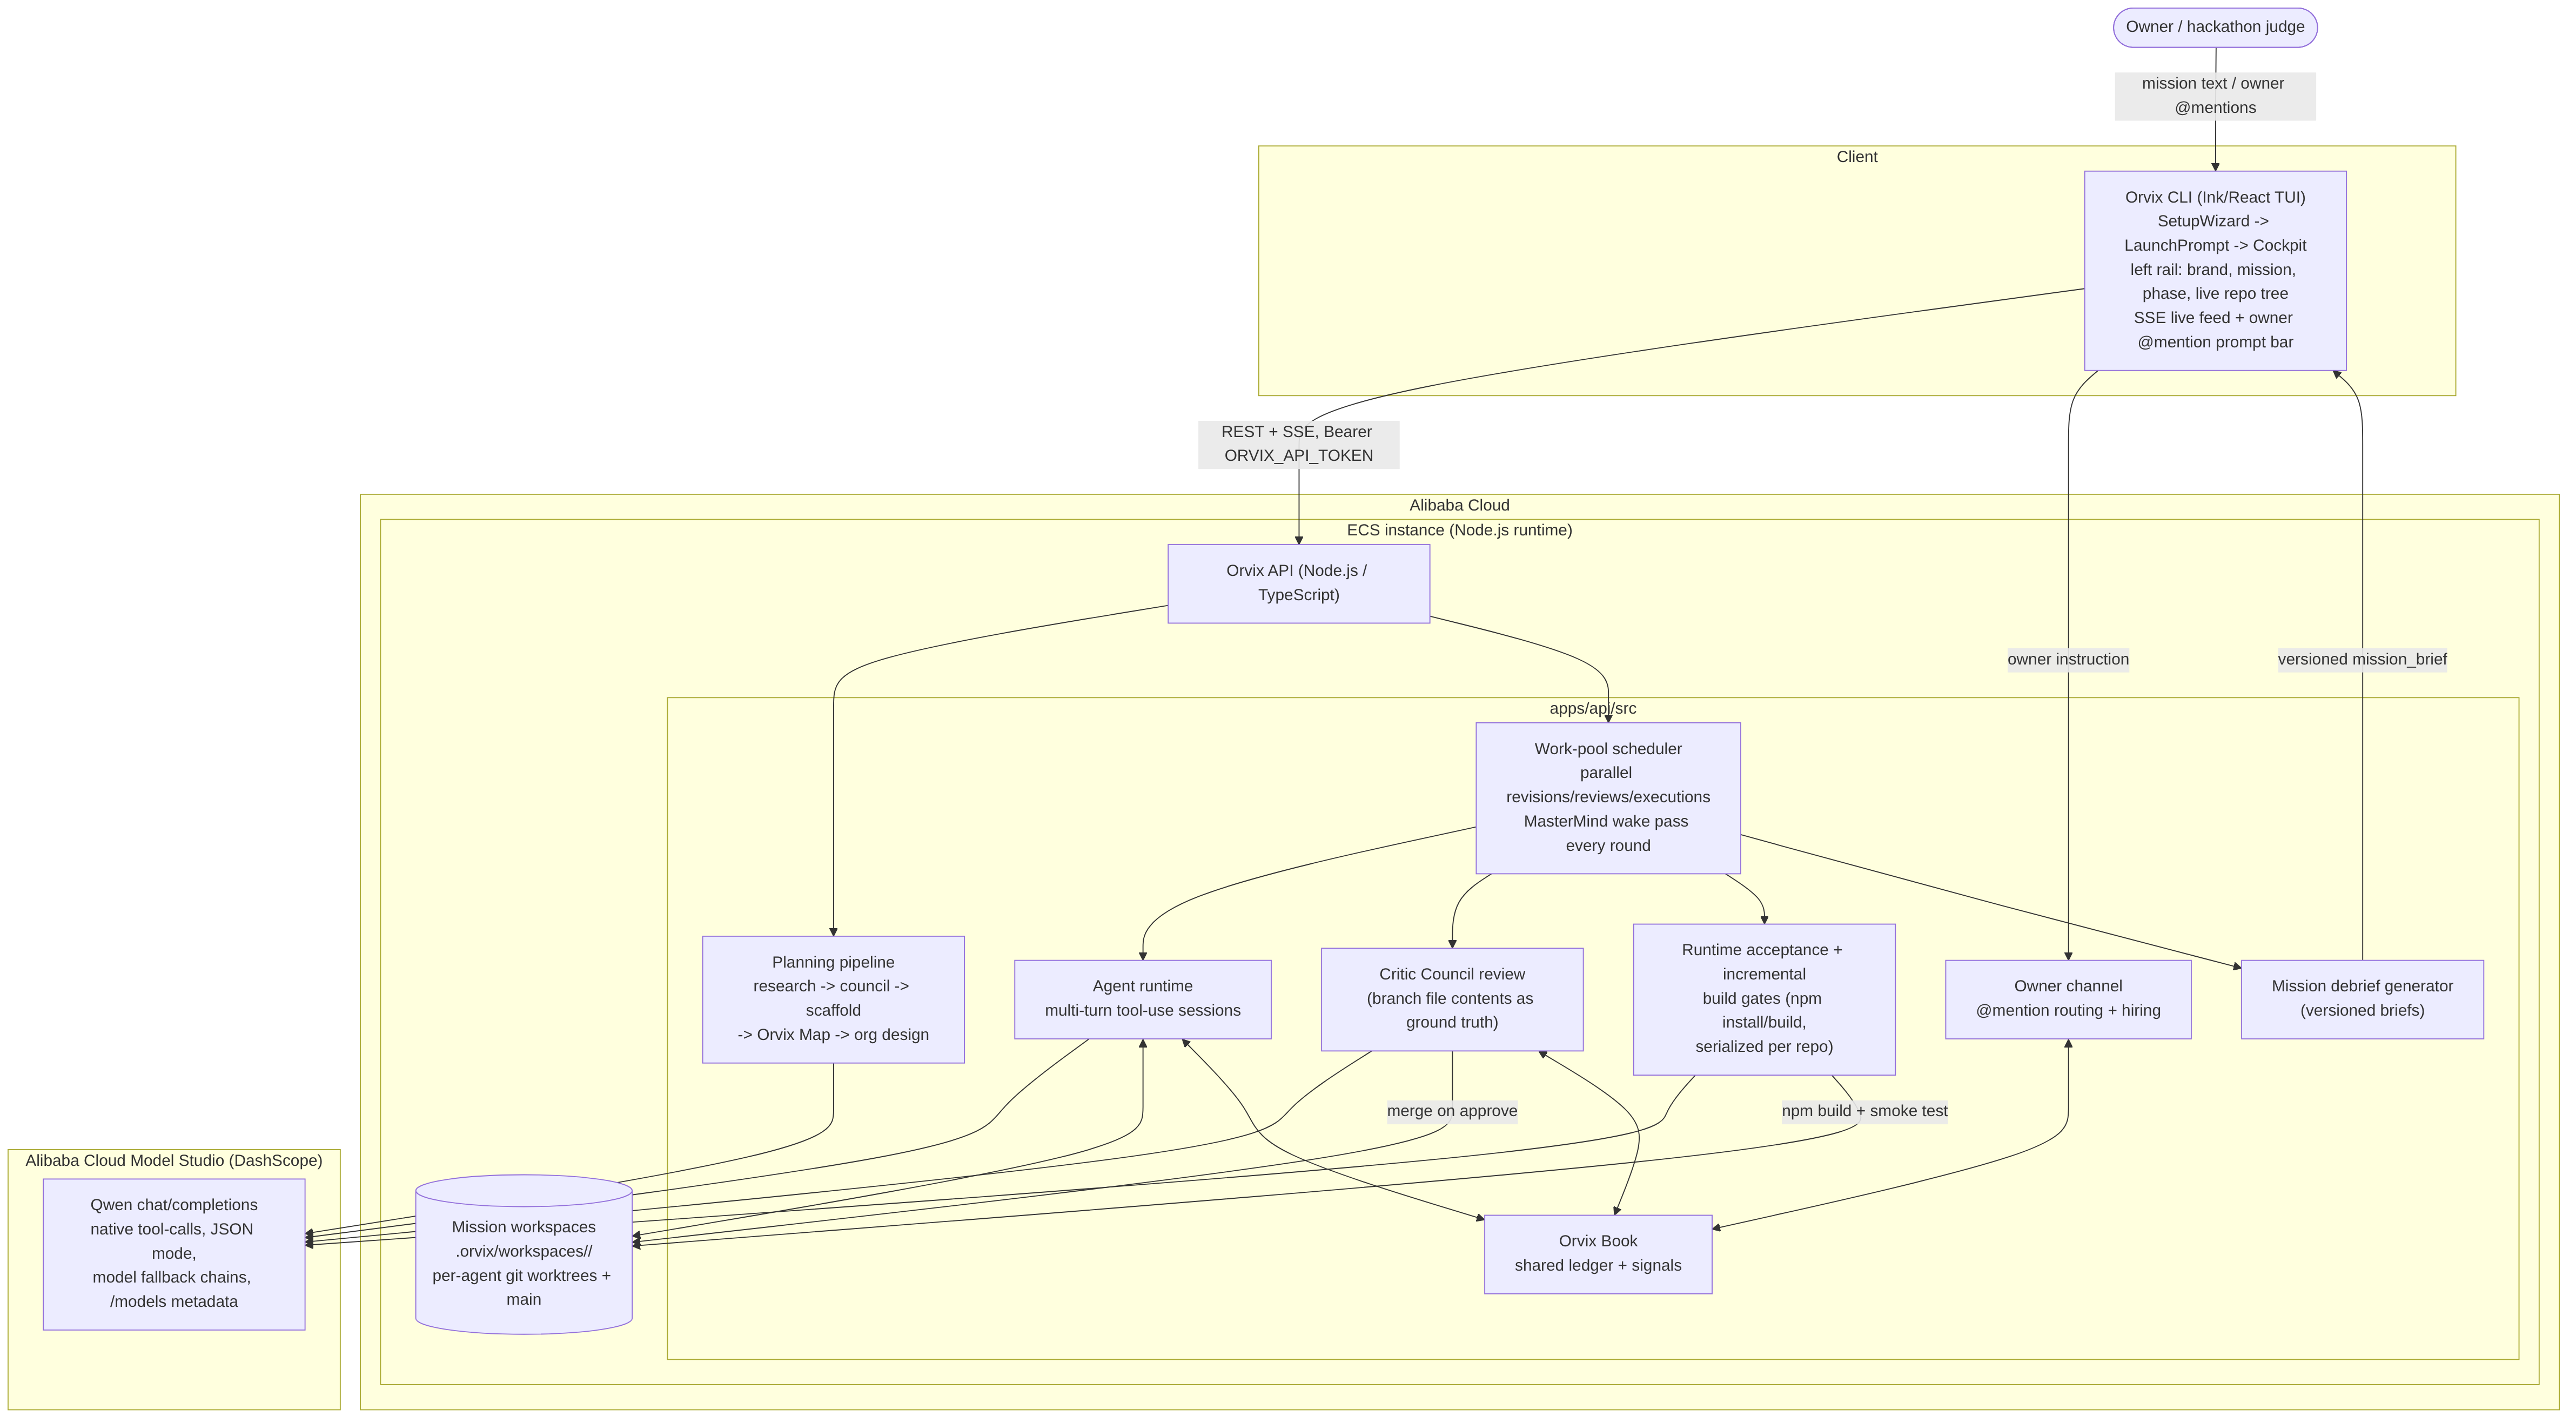
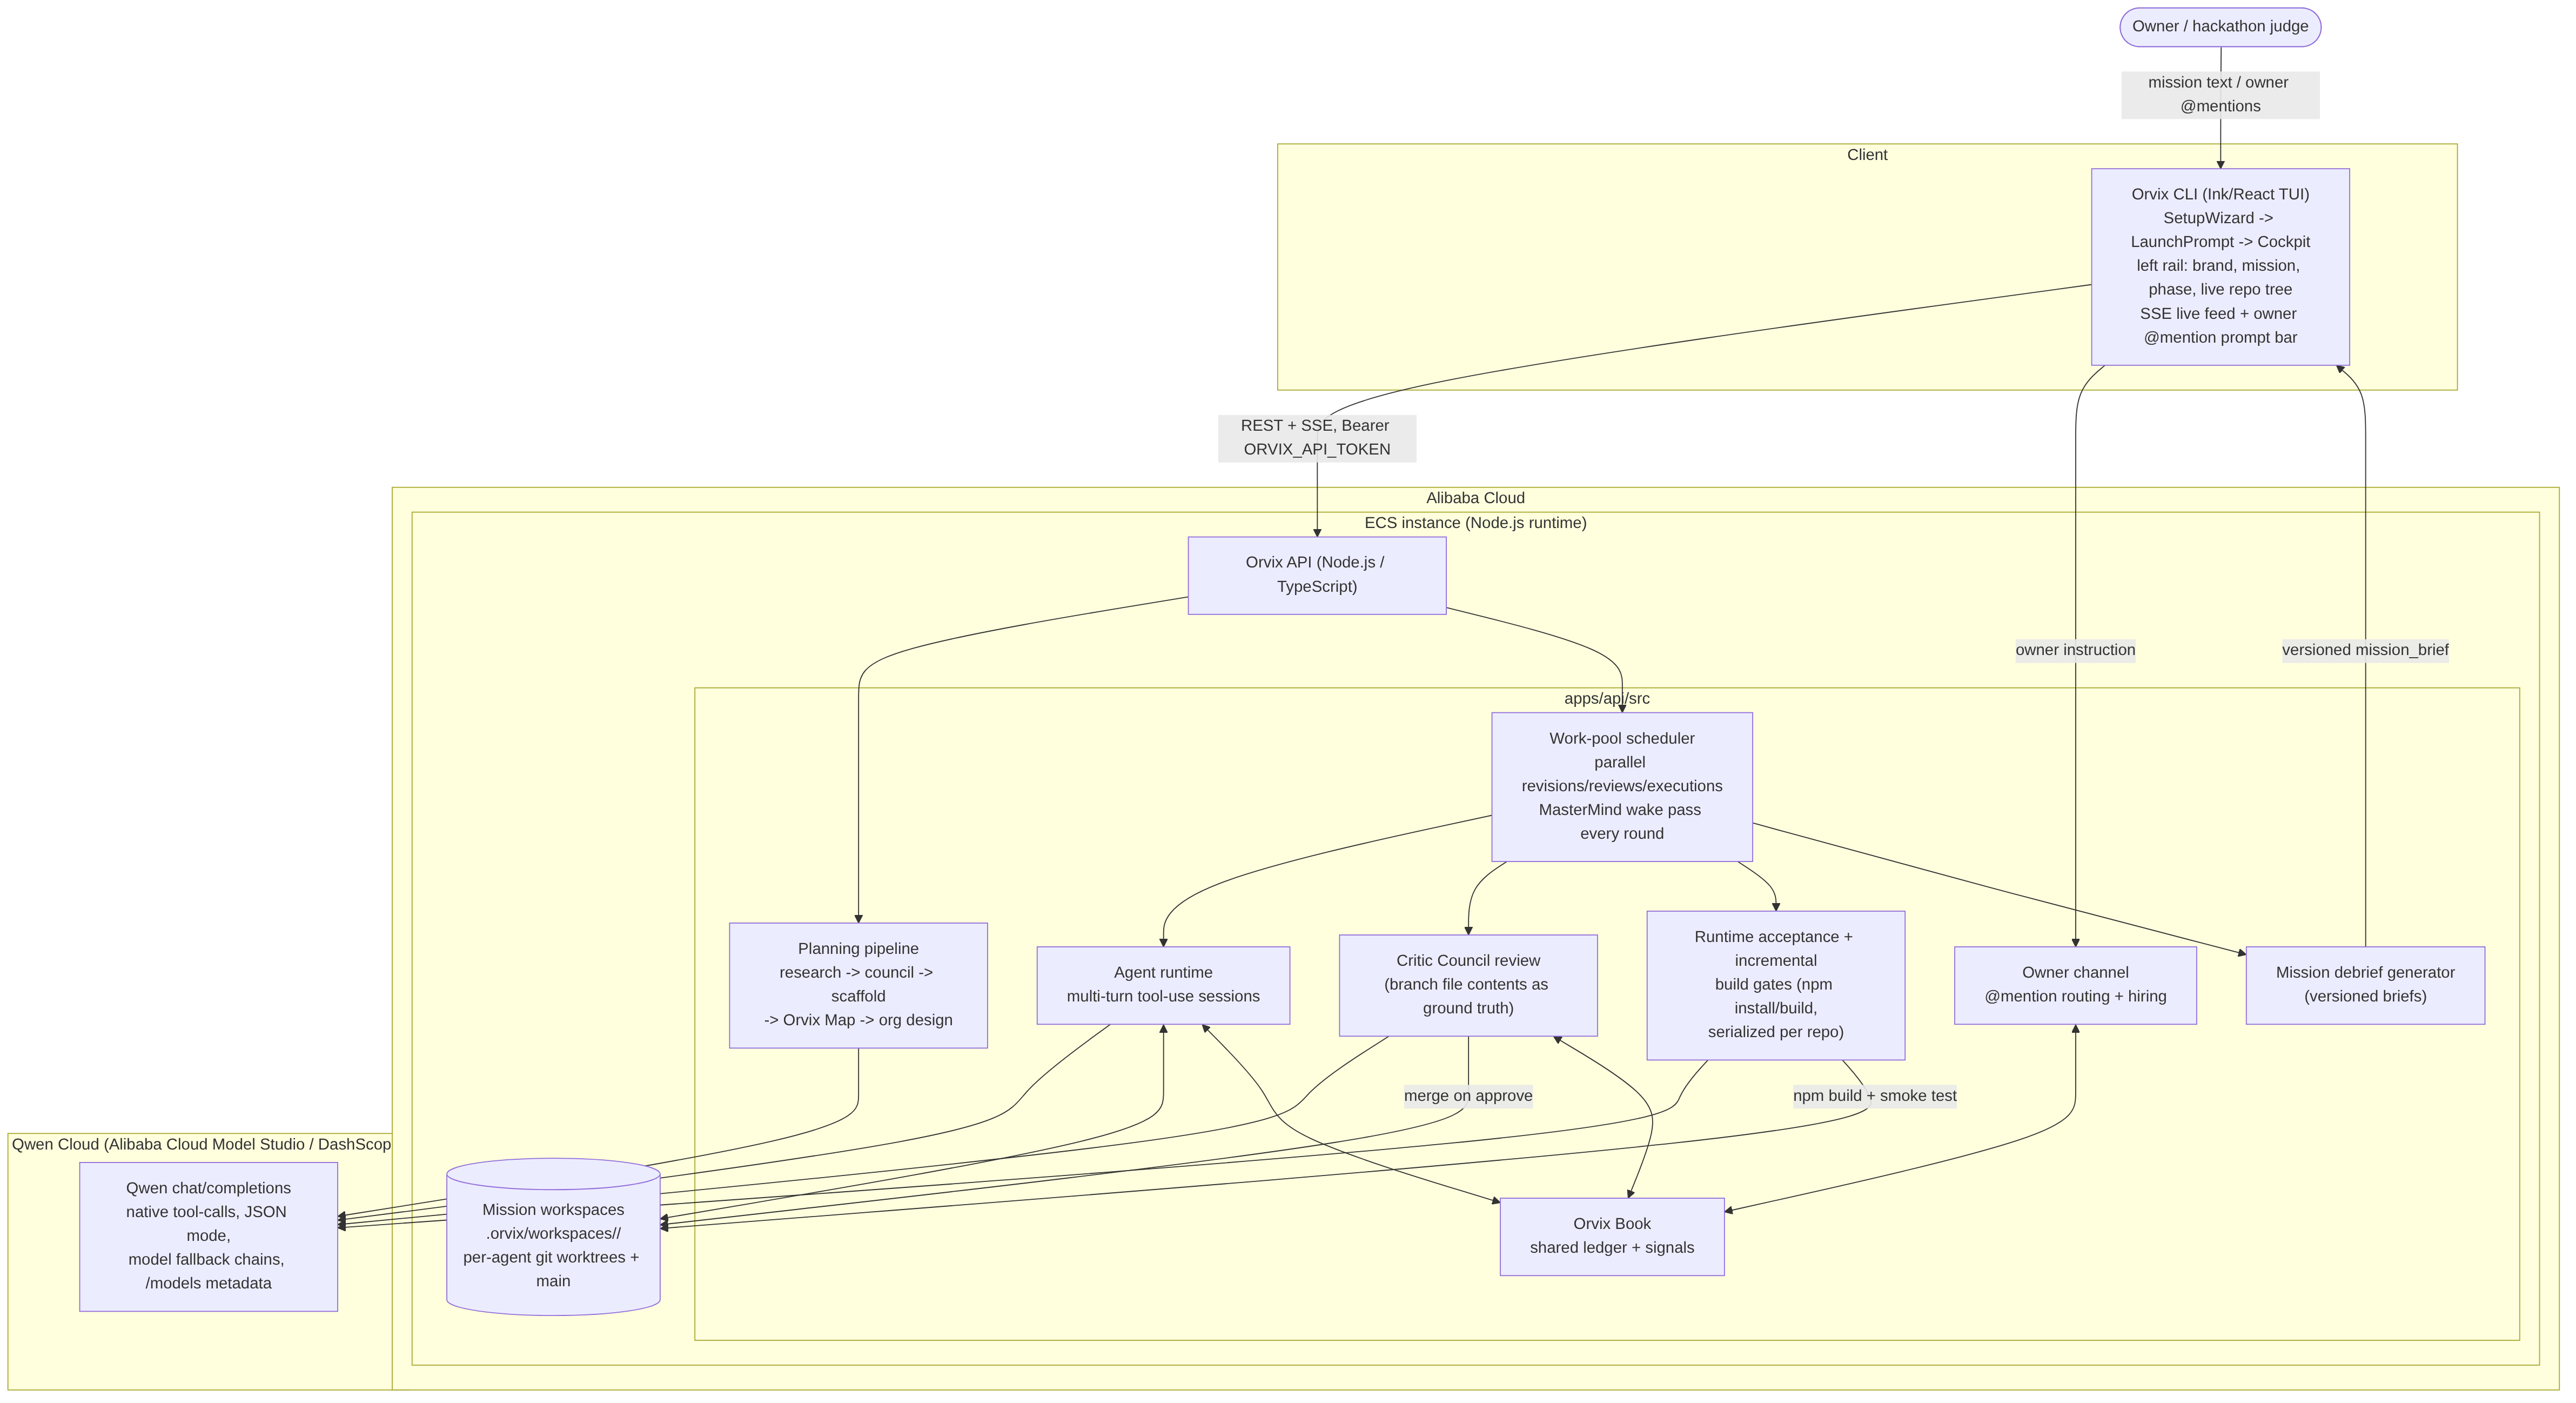
Surface "Qwen Cloud" explicitly across deployment/architecture docs
The hackathon's own materials (sign-up flow, credits, Discord, track
descriptions) refer to the Alibaba Cloud Model Studio / DashScope API
surface as "Qwen Cloud" throughout. DEPLOYMENT.md, the architecture
diagram (both the system diagram's subgraph label and the sequence
diagram's participant label), and the submission PDF only said
"Alibaba Cloud Model Studio (DashScope)" — technically the same
service, but not using the term a judge is actually scanning for.
Added "Qwen Cloud" alongside the existing technical naming everywhere
without dropping the precise endpoint/service details.

Claude-Session: https://claude.ai/code/session_01YVLuHKRZh9Nh7mfWDxKH4q

diff --git a/docs/DEPLOYMENT.md b/docs/DEPLOYMENT.md
@@ -1,8 +1,10 @@
-# Deployment: Proof of Alibaba Cloud
+# Deployment: Proof of Alibaba Cloud + Qwen Cloud
 
-Orvix's backend runs live on an Alibaba Cloud ECS instance, calling Qwen through Alibaba Cloud
-Model Studio. This document is the submission-facing proof: what's actually running where, how
-the CLI and API connect to it, and exactly which lines of code call Alibaba Cloud's services.
+Orvix's backend runs live on an Alibaba Cloud ECS instance, calling Qwen models through
+**Qwen Cloud** — the Alibaba Cloud Model Studio (DashScope) API surface the hackathon's own
+sign-up flow, credits, and Discord all refer to as Qwen Cloud. This document is the
+submission-facing proof: what's actually running where, how the CLI and API connect to it, and
+exactly which lines of code call Qwen Cloud / Alibaba Cloud's services.
 
 **Alibaba Cloud deployment proof recording** (separate from the 3-minute functional demo):
 https://youtu.be/CaVT8MNpp8E
@@ -12,7 +14,7 @@ https://youtu.be/CaVT8MNpp8E
 | Piece | Where it runs |
 | --- | --- |
 | Orvix API (`apps/api`) — planning, scheduling, agent runtime, review, acceptance gates | Docker container on an Alibaba Cloud ECS instance |
-| Qwen model calls | Alibaba Cloud Model Studio (DashScope), via its OpenAI-compatible endpoint |
+| Qwen model calls | **Qwen Cloud** (Alibaba Cloud Model Studio / DashScope), via its OpenAI-compatible endpoint |
 | Mission state | Persisted to disk on the same ECS instance (`.orvix/runs/<missionId>/`) |
 | Orvix CLI (`apps/cli`) | Runs wherever the user is — a laptop, a different machine — and talks to the ECS instance only over HTTP/SSE |
 
@@ -38,18 +40,18 @@ curl http://<ecs-public-ip>:8787/health
 }
 ```
 
-`provider: "Alibaba Cloud ready"` and a `qwenBaseUrl` pointing at Alibaba Cloud Model Studio's
-DashScope endpoint together confirm both halves of the requirement: the compute is Alibaba
-Cloud, and the model calls are Alibaba Cloud Model Studio (Qwen Cloud) — not a local process,
-not a different provider.
+`provider: "Alibaba Cloud ready"` and a `qwenBaseUrl` pointing at Qwen Cloud's DashScope
+endpoint together confirm both halves of the requirement: the compute is Alibaba Cloud, and the
+model calls go through **Qwen Cloud** (Alibaba Cloud Model Studio / DashScope) — not a local
+process, not a different provider.
 
 ## Where this is in the code
 
-### 1. The API calls Alibaba Cloud Model Studio directly
+### 1. The API calls Qwen Cloud directly
 
 [`packages/qwen/src/client.ts`](https://github.com/abbasmir12/orvix/blob/main/packages/qwen/src/client.ts#L487-L505) —
-`createQwenConfig()` defaults `baseUrl` to Alibaba Cloud Model Studio's OpenAI-compatible
-endpoint:
+`createQwenConfig()` defaults `baseUrl` to Qwen Cloud's OpenAI-compatible endpoint (Alibaba
+Cloud Model Studio / DashScope):
 
 ```ts
 baseUrl: env.QWEN_BASE_URL ?? "https://dashscope-intl.aliyuncs.com/compatible-mode/v1",
@@ -75,11 +77,11 @@ workspaces, then ships only `@orvix/api`'s runtime dependencies plus the compile
 `core`/`qwen`/`workspace` packages, with `git` installed since agent sessions run real
 `git worktree`/`npm install`/`npm run build` commands against mission workspaces.
 
-### 4. Environment configuration tying the deployment to Alibaba Cloud
+### 4. Environment configuration tying the deployment to Qwen Cloud
 
 [`.env.example`](https://github.com/abbasmir12/orvix/blob/main/.env.example) — `QWEN_BASE_URL`
-and `DASHSCOPE_API_KEY` are the two variables that point the deployed API at Alibaba Cloud
-Model Studio. Full reference: [`env-reference/`](env-reference/).
+and `DASHSCOPE_API_KEY` are the two variables that point the deployed API at Qwen Cloud
+(Alibaba Cloud Model Studio). Full reference: [`env-reference/`](env-reference/).
 
 ## How the CLI connects to the Alibaba Cloud instance
 

diff --git a/docs/architecture/README.md b/docs/architecture/README.md
@@ -27,7 +27,7 @@ resolution), and [`owner-channel/`](../owner-channel/) (human-in-the-loop steeri
 | --- | --- |
 | Mission state, planning, scheduling, review, acceptance, the Orvix Book | `apps/api` — a single Node process, no external services |
 | Cockpit UI, live rail, prompt bar, owner channel | `apps/cli` — an Ink/React terminal app that talks to the API over REST + SSE |
-| Model calls | `packages/qwen` — Alibaba Cloud Model Studio (DashScope) OpenAI-compatible endpoint |
+| Model calls | `packages/qwen` — Qwen Cloud (Alibaba Cloud Model Studio / DashScope) OpenAI-compatible endpoint |
 | Sandboxed git operations | `packages/workspace` — every mission gets its own repo under `.orvix/workspaces/<missionId>/`, one git worktree per agent branch |
 | Shared types + on-disk snapshots | `packages/core` |
 
@@ -149,7 +149,7 @@ packages/workspace/src/
 sequenceDiagram
     participant U as User
     participant API as Orvix API
-    participant Q as Qwen (DashScope)
+    participant Q as Qwen Cloud (DashScope)
     participant WS as Git worktree
     participant Book as Orvix Book
 